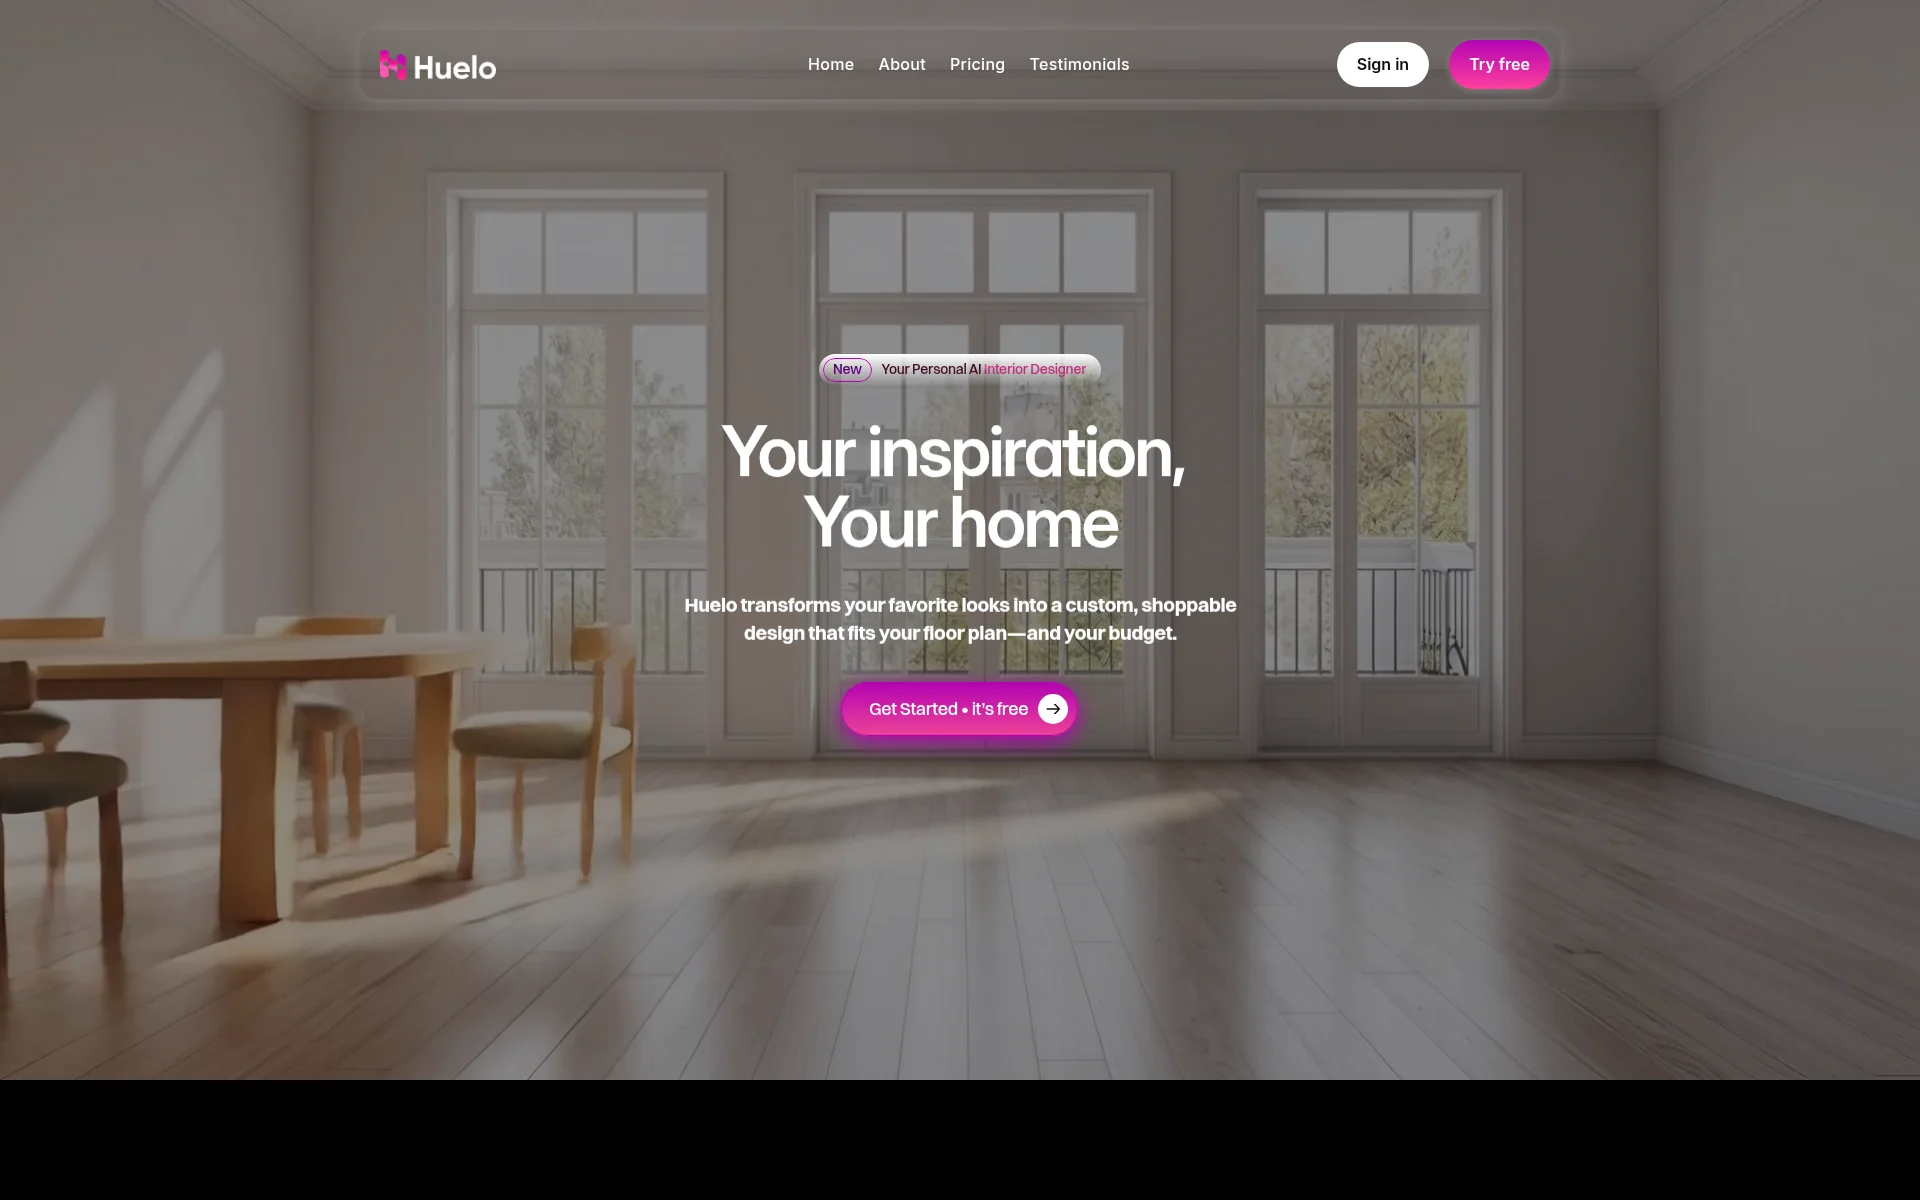
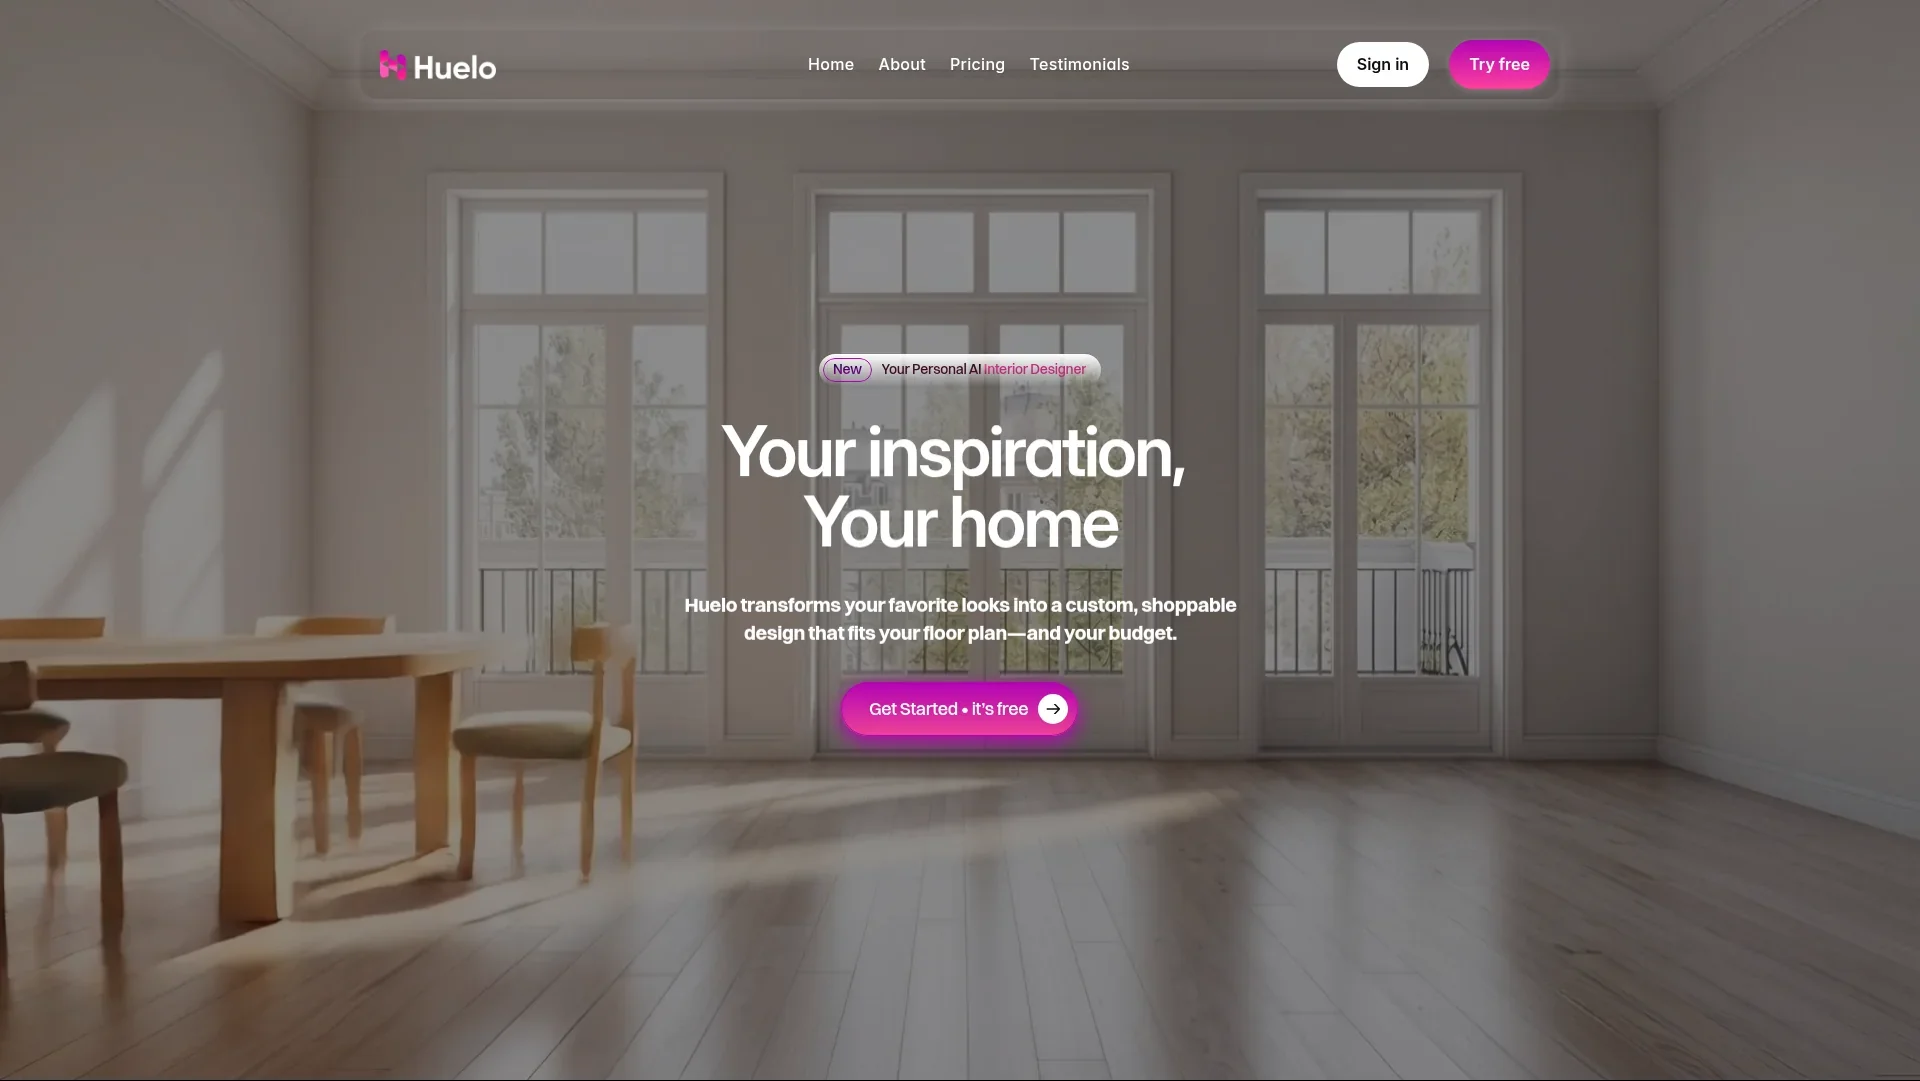
Mark Northwestern Medicine in progress; fix both thumbnails
Northwestern Medicine now carries inProgress, so it shows the badge on its
Work card and the banner on the detail page.

The two thumbnails had bars for different reasons, so they needed
different fixes.

Huelo's was baked into the image: cover.webp was 1920x1200 with 119 rows of
pure black along the bottom, a letterbox from the source export. No CSS
could reach it. Cropped to the real content, 1920x1081, which is 16:9 and
matches Jointly and Airy, so object-cover now fills the 16/10 card with no
bar. Also 6KB smaller. Scanned every other cover and hero while there —
none have baked-in bars.

Northwestern's were CSS: the study set imageFit "contain", which
letterboxes inside the 16/10 card whenever the source is a different
aspect. Dropped it so it uses object-cover like every other study.

Caveat on that second one: its cover is a Lovable-hosted asset
(/__l5e/assets-v1/...) that does not resolve outside Lovable, so the image
renders 0x0 locally and I could only verify the computed object-fit, not
the result. Worth a look once deployed — if cover crops something that
matters, the fix is a cover image with a 16/10-friendly aspect rather than
reinstating contain.

Verified: typecheck, build and tests pass; all five cards compute
object-fit cover, Huelo's thumbnail fills edge to edge, both in-progress
studies show the badge, and the Northwestern detail banner renders.

Claude-Session: https://claude.ai/code/session_01TDwKu4Rjvss34zqenRv7ab

diff --git a/src/data/caseStudies.ts b/src/data/caseStudies.ts
@@ -586,9 +586,9 @@ export const caseStudies: CaseStudy[] = [
     summary:
       "Going into an existing research project at Northwestern Feinberg School of Medicine, I was tasked with owning research and design for a new digital product aimed at supporting diagnosis and treatment of pediatric patients with disorders of gut-brain interaction.",
     featured: false,
+    inProgress: true,
     coverImage: northwesternMedicineCover.url,
     heroImage: northwesternMedicineCover.url,
-    imageFit: "contain",
     facts: {
       timeline: "2025",
       team: "Sole designer and PM inside an existing research project",
